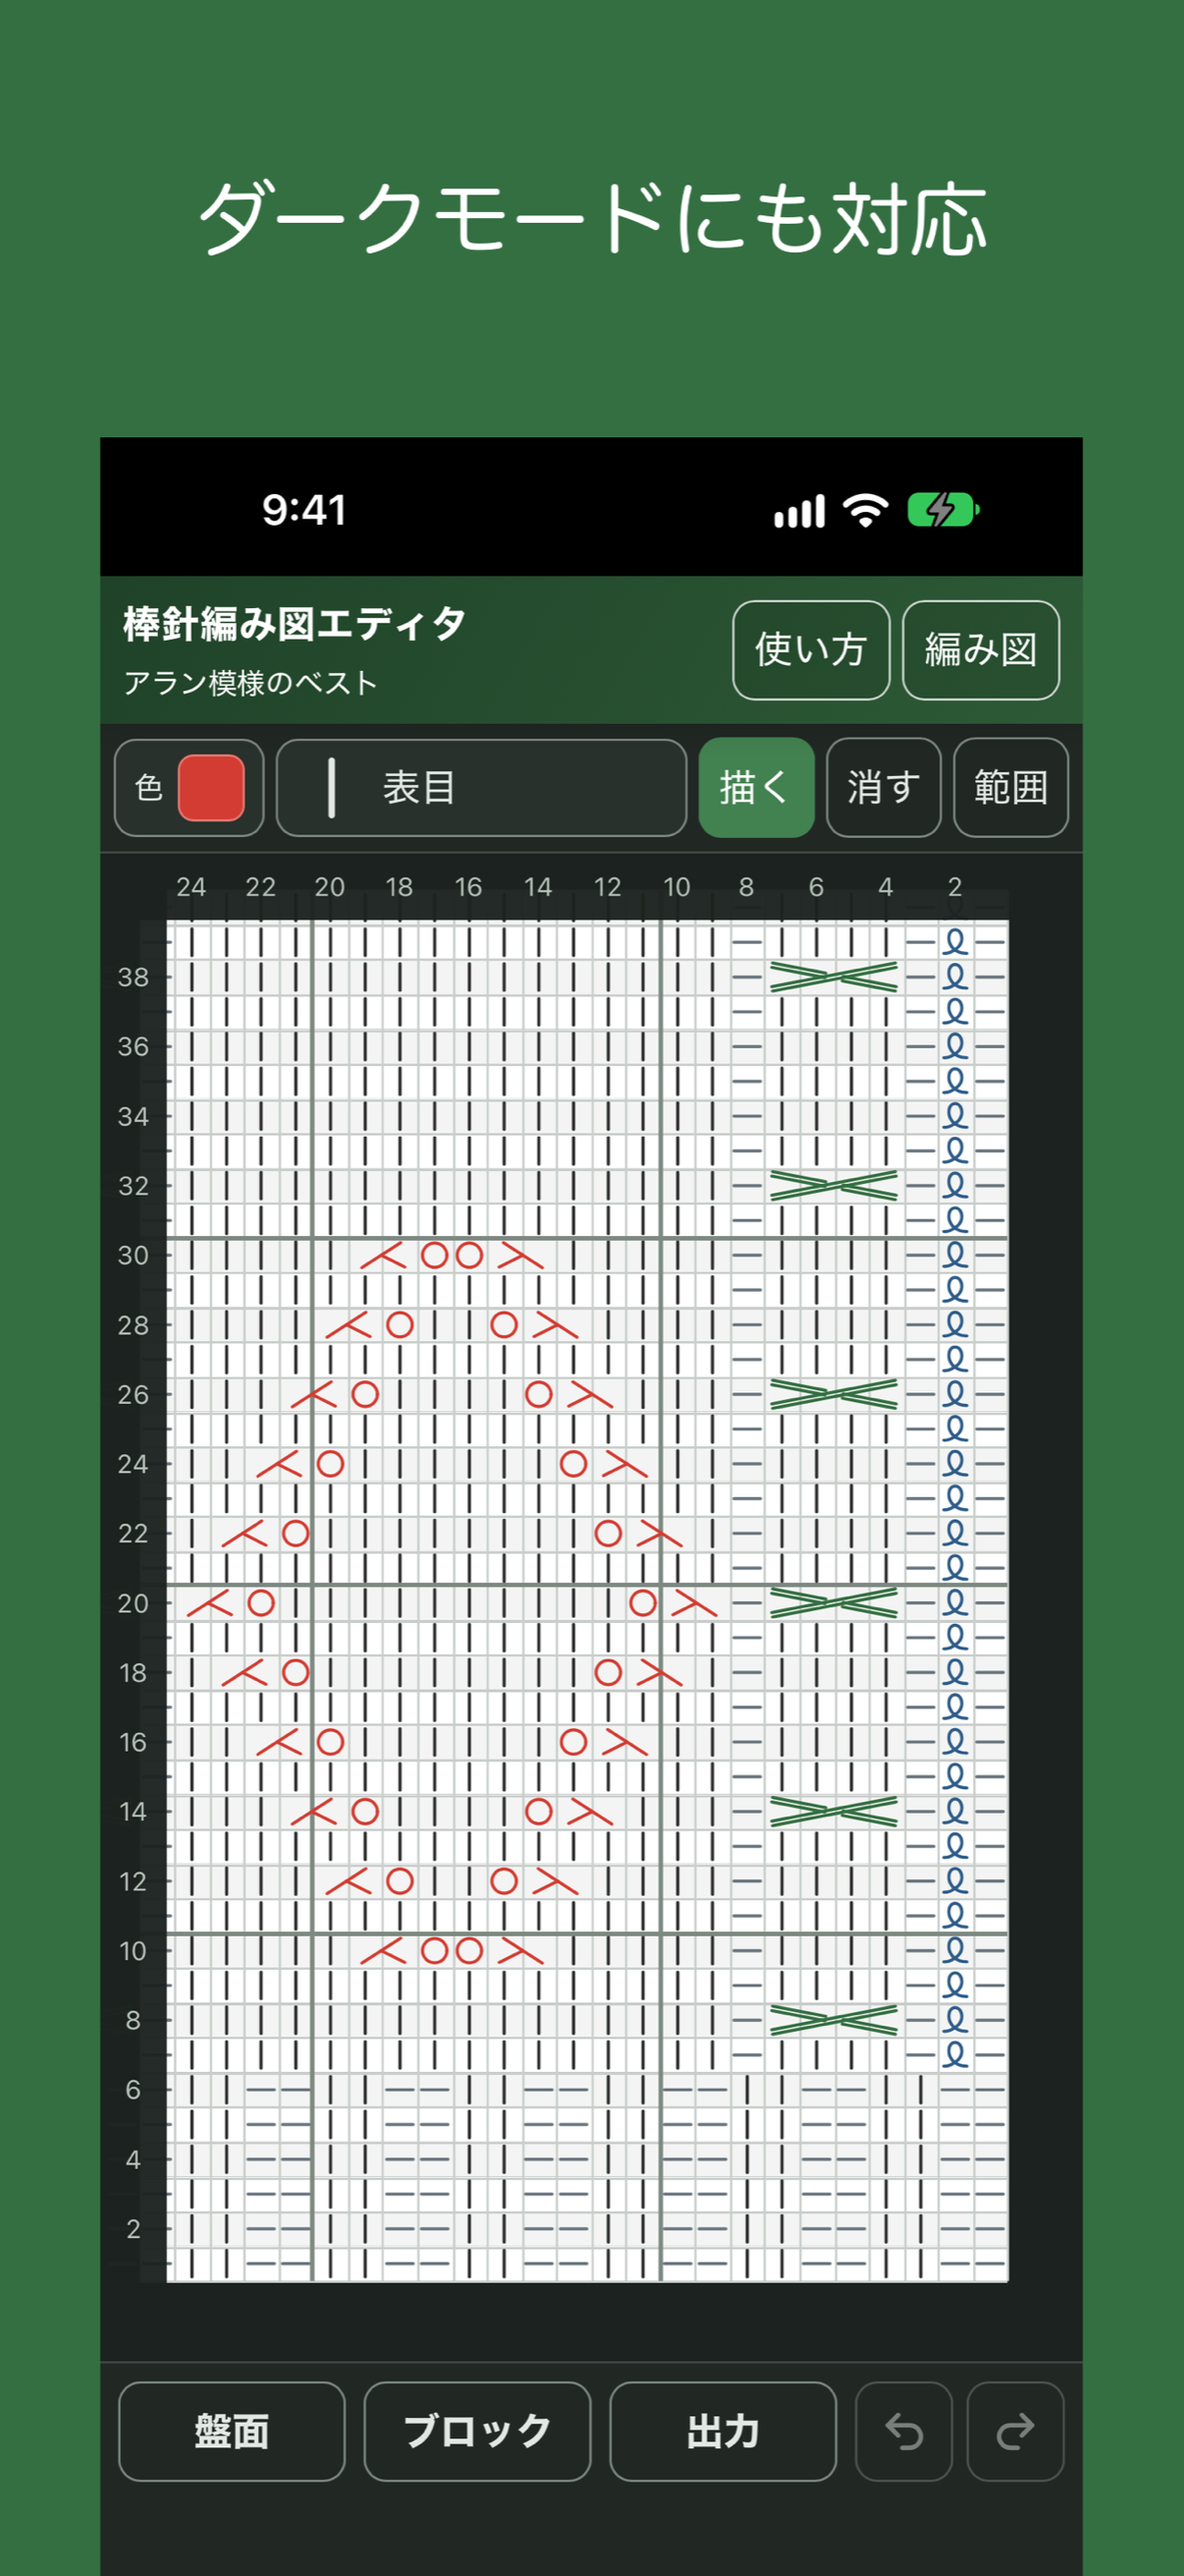
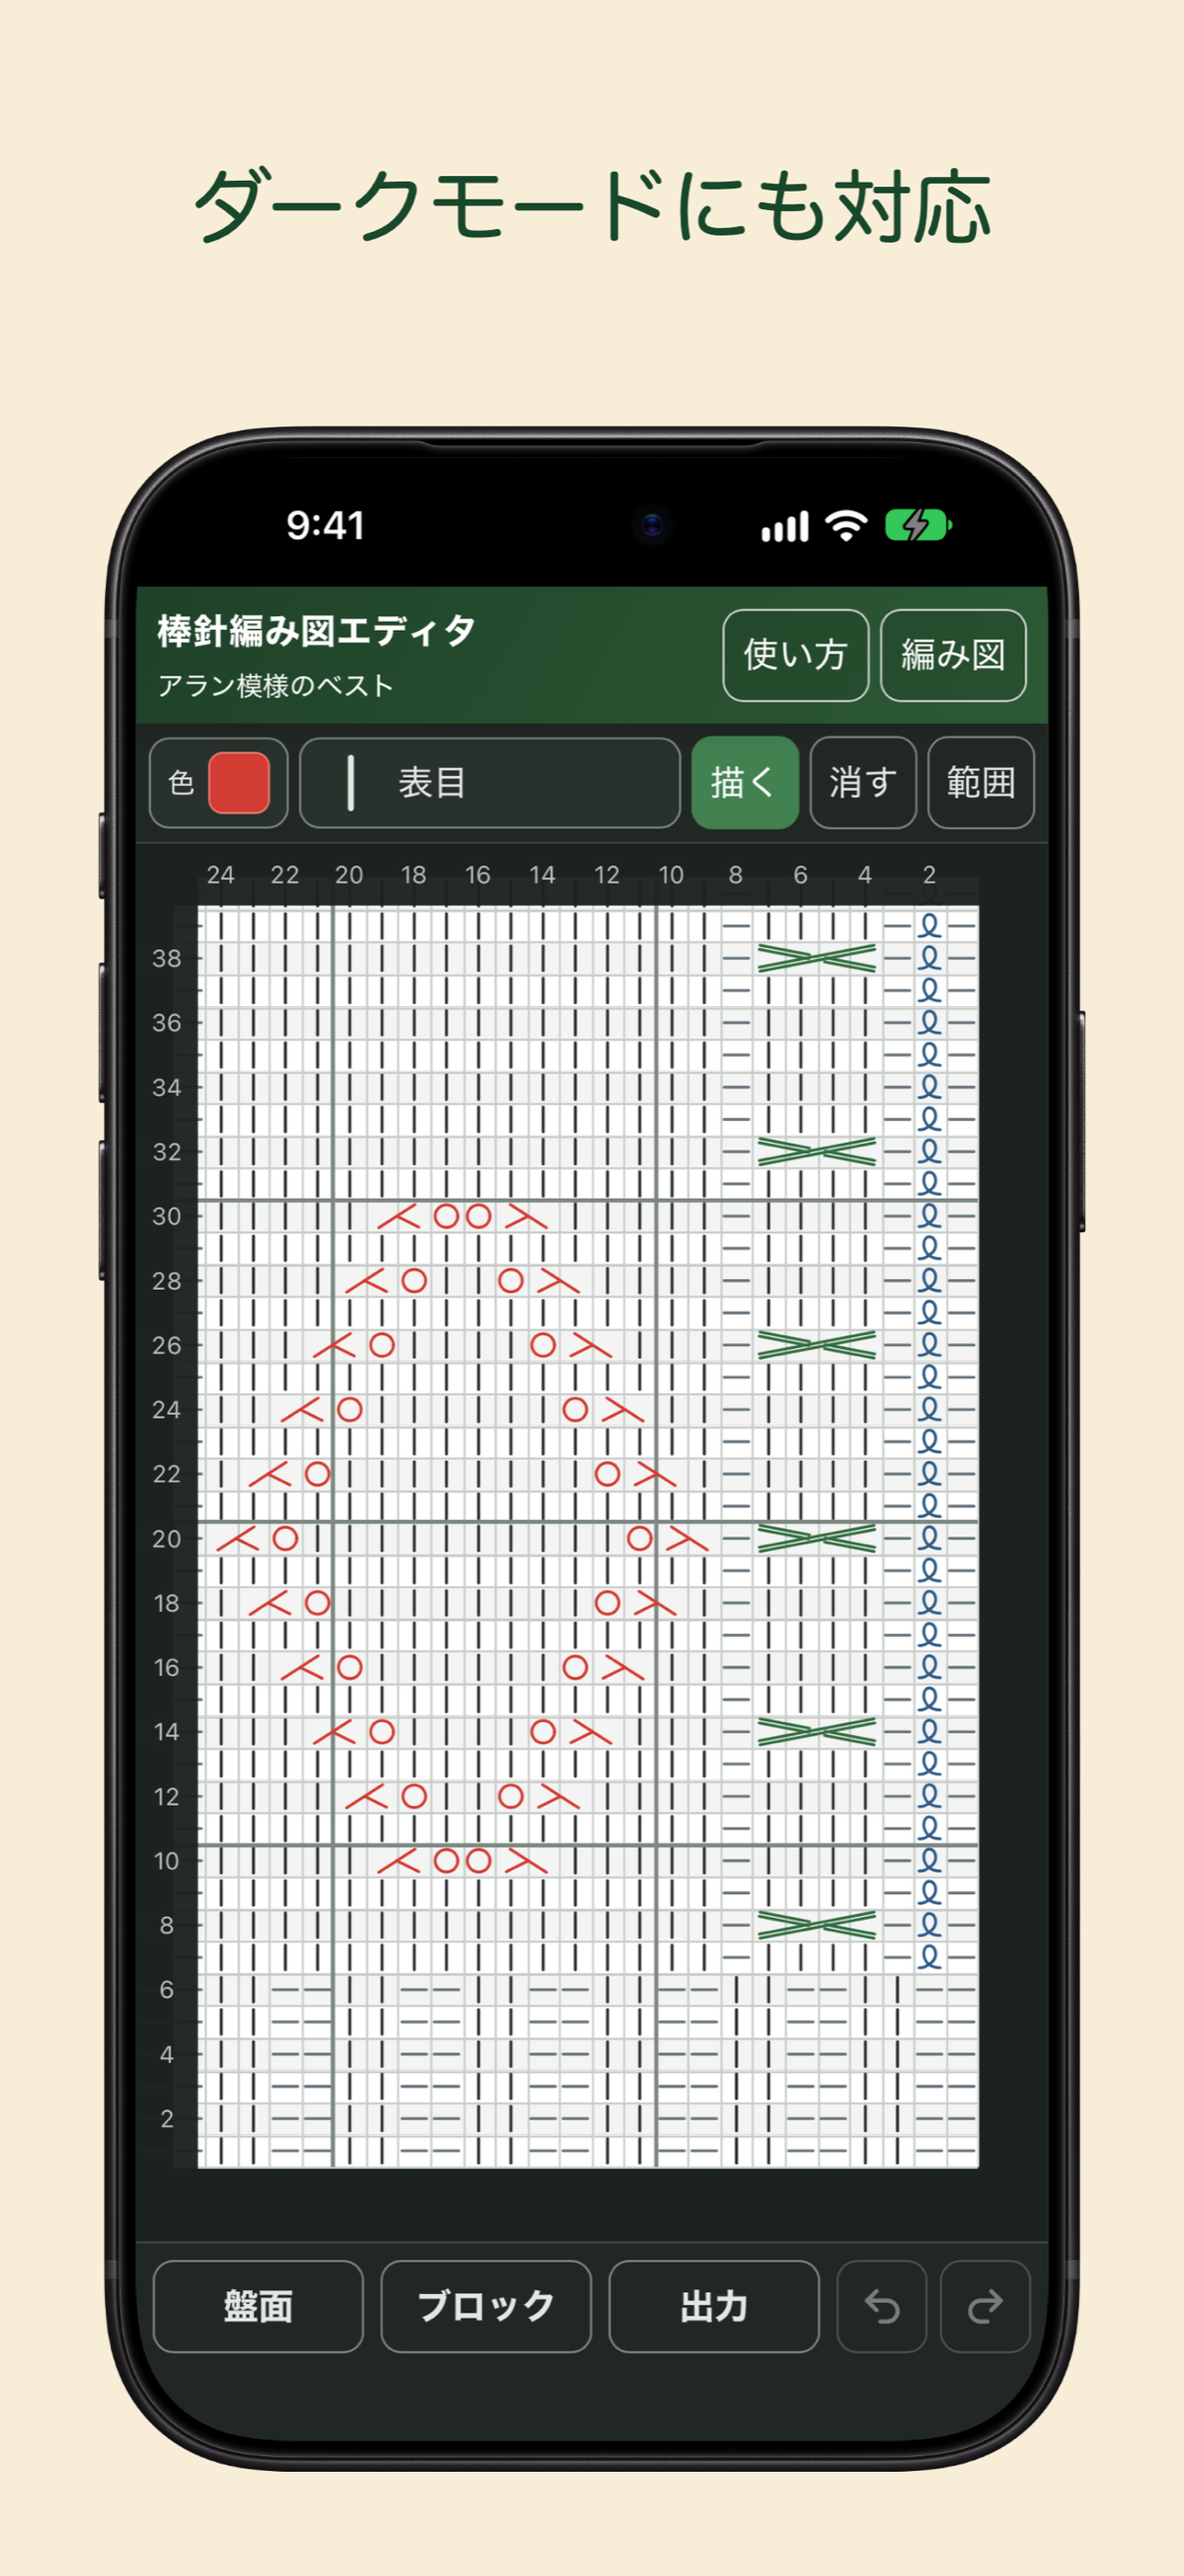
feat: frame the App Store screenshots in Apple's product bezels
Regenerate the 25 App Store screenshots with the device bezels from
Apple Design Resources, a cream background, and deep green captions.
The bezels stay outside the repository; the new script composites them
with the screen images in ios/design/app-store-screenshots/screens/.

diff --git a/ios/design/app-store-creative/universal.html b/ios/design/app-store-creative/universal.html
@@ -42,14 +42,12 @@
   .features { margin-top: 70px; font-size: 68px; font-weight: 500; opacity: .9; white-space: nowrap; }
   .device { position: absolute; background: #111; box-shadow: 0 40px 110px rgba(0,0,0,.45); overflow: hidden; }
   .screen { overflow: hidden; }
-  .screen img { display: block; }
-  /* 提出用スクリーンショットから、説明文の帯を除いた画面の部分だけを切り出す。 */
+  .screen img { display: block; width: 100%; }
+  /* 画面は ios/design/app-store-screenshots/screens/ の画像を、加工せずに縮小して入れる。 */
   .ipad { left: 3040px; top: 760px; width: 900px; padding: 24px; border-radius: 64px; }
-  .ipad .screen { width: 900px; height: calc(2286px * 900 / 1713); border-radius: 40px; }
-  .ipad img { width: calc(2064px * 900 / 1713); margin: calc(-466px * 900 / 1713) 0 0 calc(-175px * 900 / 1713); }
+  .ipad .screen { width: 900px; height: calc(2285px * 900 / 1713); border-radius: 40px; }
   .iphone { left: 2830px; top: 1180px; width: 380px; padding: 17px; border-radius: 70px; }
   .iphone .screen { width: 380px; height: calc(2381px * 380 / 1095); border-radius: 54px; }
-  .iphone img { width: calc(1320px * 380 / 1095); margin: calc(-487px * 380 / 1095) 0 0 calc(-112px * 380 / 1095); }
   /* ?safe で開いたときだけ、プレビューのスクリーンショットから読み取った範囲と、縦横比から計算した範囲を重ねる（2026-11-03、目安）。 */
   .area { display: none; position: absolute; outline: 10px dashed; }
   body.safe-area .area { display: block; }
@@ -68,8 +66,8 @@
     <h1>棒針の<em>編み図</em>を、<br>iPhoneとiPadで。</h1>
     <div class="features">29種類の記号・自動保存・PNG／PDF</div>
   </div>
-  <div class="device ipad"><div class="screen"><img src="../../docs/screenshots/app-store-ipad-13-01-editor.png" alt=""></div></div>
-  <div class="device iphone"><div class="screen"><img src="../../docs/screenshots/app-store-iphone-6.9-01-editor.png" alt=""></div></div>
+  <div class="device ipad"><div class="screen"><img src="../app-store-screenshots/screens/ipad-13-01-editor.png" alt=""></div></div>
+  <div class="device iphone"><div class="screen"><img src="../app-store-screenshots/screens/iphone-6.9-01-editor.png" alt=""></div></div>
   <div class="area wide"></div>
   <div class="area search"></div>
   <div class="area phone"></div>

diff --git a/docs/dev-log/2026-11-11-framed-app-store-screenshots.md b/docs/dev-log/2026-11-11-framed-app-store-screenshots.md
@@ -1,0 +1,12 @@
+# 2026-11-11 — App Storeのスクリーンショットを、Appleの製品ベゼルに入れたデザインに作り直す
+
+- 影響: App Store Connectに登録するスクリーンショット25枚（iPhone 6.9インチ・6.3インチ、iPad 13インチ、iPhone Duoの外側・内側）を、#434の決定に沿って作り直した。画面をAppleのデザインリソースの製品ベゼル（iPhone 18 Pro Max、iPad Pro (M5) 13インチ、iPhone Duo）に入れた。背景はクリーム`#f8eed8`、説明文は深緑`#18482b`にした。画面・順・説明文・提出サイズは変えていない。ベゼルは利用許諾により配れないため、リポジトリに入れない。ベゼルのディスクイメージを開いた状態で、生成スクリプトが画面の画像と合成する。製品ページのヘッダの画像の元（`universal.html`）も、同じ画面の画像を読むようにした。見た目は変わらない。App Store Connectへの登録は1.2の版で行う（#439）。
+- 主なファイル: `scripts/generate-app-store-screenshots.mjs`（新規）、`ios/design/app-store-screenshots/screens/`（新規、画面の画像20枚）、`ios/docs/screenshots/app-store-*.png`、`ios/design/app-store-creative/universal.html`、`ios/docs/SCREENSHOTS.md`、`ios/docs/APP_STORE_METADATA.md`。
+- テスト: 追加していない。生成スクリプトは、利用者がベゼルの利用許諾に同意して開いたディスクイメージとmacOSのフォントを使う。このためCIでは実行できず、書き出した画像を確かめた。
+- 検証:
+  - `node scripts/generate-app-store-screenshots.mjs`で25枚を書き出した。`sips`で、すべて提出サイズ（6.9インチ1320×2868、6.3インチ1206×2622、iPad 13インチ2064×2752、Duo外側1398×2034・内側2007×2853）で、透過なしであることを確かめた。端末ごとに5枚を並べて目で確かめた。画面の角がベゼルの外にはみ出さないことも確かめた。
+  - 画面の画像20枚は、それまでの提出画像の画面の部分と、画素が一致することを確かめた。
+  - `universal.html`を`npx playwright screenshot`で書き出し、前の画像と比べた。違いは画面の縮小の位置が半画素ずれたことだけで、見た目は同じだった（iPadの画面の上端に1画素あった帯の緑がなくなった）。5244×2950・透過なし。
+  - `sh ios/scripts/check-app-store-docs.sh`、`npm test`、`git diff --check`が成功した。
+  - 手元で確かめていないこと: App Store Connectのプレビューでの見え方。1.2の版を作るときに、登録と合わせて確かめる（#439）。
+- デプロイ影響: なし。Web版とアプリのビルドは変わらない。App Storeの画像は登録していない。

diff --git a/ios/docs/APP_STORE_METADATA.md b/ios/docs/APP_STORE_METADATA.md
@@ -91,7 +91,7 @@ App Store Connectの年齢制限は、質問票への回答から決まる（202
 
 ### スクリーンショットの説明文
 
-- 機能を説明する短い文を、画面の上の帯に入れる。2026-10-20に、iPhone・iPadとも5枚の画面と文面を決めた（#290）。2026-10-29に、iPhone Duoの外側・内側も同じ5枚で作った（#353）。画面・順・文面と作り方は[`SCREENSHOTS.md`](SCREENSHOTS.md)。
+- 機能を説明する短い文を画面の上に置き、画面はAppleの製品ベゼルに入れる（2026-11-11、#434）。2026-10-20に、iPhone・iPadとも5枚の画面と文面を決めた（#290）。2026-10-29に、iPhone Duoの外側・内側も同じ5枚で作った（#353）。画面・順・文面と作り方は[`SCREENSHOTS.md`](SCREENSHOTS.md)。
 
 ### 英語の製品ページ
 
